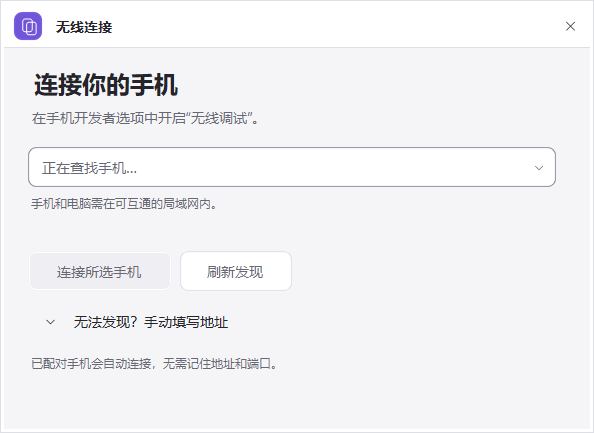
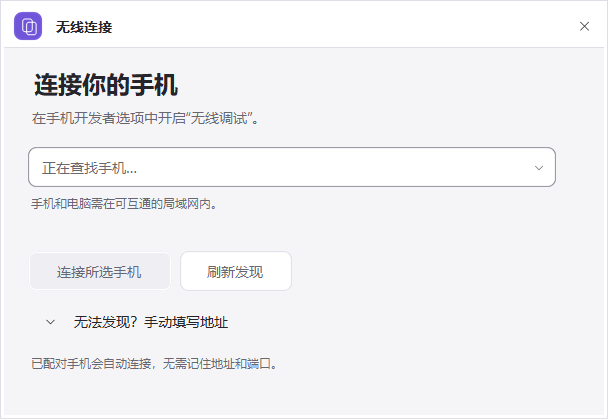
fix: stabilize wireless connection dialog layout (2.7.3)

diff --git a/src/WirelessDialog.cs b/src/WirelessDialog.cs
@@ -10,12 +10,12 @@ namespace AppDeck {
         readonly SelectBox phones=new SelectBox{Width=528,Height=40,EmptyText="正在查找手机…"};
         readonly Field address=new Field("连接地址，例如 192.168.1.10:37521"),pairAddress=new Field("配对地址，端口与连接地址不同"),code=new Field("六位配对码");
         readonly Label discovery=Theme.Hint("手机和电脑需在可互通的局域网内。",9),status=Theme.Hint("已配对手机会自动连接，无需记住地址和端口。",9);
-        readonly FlowLayoutPanel content=new FlowLayoutPanel{Dock=DockStyle.Fill,Padding=new Padding(24,20,24,16),FlowDirection=FlowDirection.TopDown,WrapContents=false,AutoScroll=true};
+        readonly FlowLayoutPanel content=new BufferedFlowPanel{Dock=DockStyle.Fill,Padding=new Padding(24,20,24,16),FlowDirection=FlowDirection.TopDown,WrapContents=false,AutoScroll=true};
         readonly Panel pairGroup=new Panel{Width=528,Height=140,Margin=new Padding(0,16,0,0)},manualGroup=new Panel{Width=528,Height=148,Visible=false,Margin=Padding.Empty};
         readonly ModernButton connect,pair,refresh,manualConnect,manualPair,manualToggle;
-        bool updating,manualExpanded,previewState;string phoneSignature="";NearbyPhone selectedPhone;
+        bool updating,manualExpanded,previewState,arranging;int layoutState=-1;string phoneSignature="";NearbyPhone selectedPhone;
         public WirelessDialog(WirelessMonitor monitor=null){
-            this.monitor=monitor;Text="无线连接";ClientSize=new Size(580,430);MinimumSize=new Size(580,400);MaximizeBox=false;Caption.SetWindowButtons(false,false);StartPosition=FormStartPosition.CenterParent;Body.Controls.Add(content);
+            this.monitor=monitor;Text="无线连接";Size=new Size(608,430);MinimumSize=new Size(608,400);MaximumSize=new Size(608,Int16.MaxValue);MaximizeBox=false;Caption.SetWindowButtons(false,false);StartPosition=FormStartPosition.CenterParent;Body.Controls.Add(content);
             var heading=Theme.Label("连接你的手机",18,true);heading.Margin=new Padding(0,0,0,8);content.Controls.Add(heading);
             var hint=Theme.Hint("在手机开发者选项中开启“无线调试”。",10.5f);hint.Margin=new Padding(0,0,0,20);content.Controls.Add(hint);
             phones.Margin=new Padding(0,0,0,8);phones.AccessibleName="发现的无线调试手机";content.Controls.Add(phones);phones.SelectedIndexChanged+=(s,e)=>{if(!updating){selectedPhone=phones.SelectedItem as NearbyPhone;UpdateSelection();}};
@@ -37,16 +37,27 @@ namespace AppDeck {
         }
         static FlowLayoutPanel Row(){return new FlowLayoutPanel{Width=528,Height=40,Margin=Padding.Empty,WrapContents=false};}
         void UpdateSections(){
-            var phone=phones.SelectedItem as NearbyPhone;bool needsPairing=phone!=null&&!phone.Connected&&phone.Pair!=null,showPair=manualExpanded||needsPairing;
-            pairGroup.Visible=showPair;manualGroup.Visible=manualExpanded;manualToggle.Text=manualExpanded?"收起手动连接":"无法发现？手动填写地址";
-            connect.Visible=!needsPairing;refresh.Margin=needsPairing?Padding.Empty:new Padding(8,0,0,0);pair.Visible=needsPairing;pair.Primary=!manualExpanded;
-            pairGroup.Controls[0].Text=needsPairing?"首次使用 · 配对这台手机":"手动配对 · 六位配对码";
-            content.PerformLayout();int height=content.Padding.Vertical+Caption.Height+8;
-            foreach(Control control in content.Controls)if(control!=pairGroup&&control!=manualGroup)height+=control.Height+control.Margin.Vertical;
-            if(showPair)height+=pairGroup.Height+pairGroup.Margin.Vertical;if(manualExpanded)height+=manualGroup.Height+manualGroup.Margin.Vertical;
-            int maxHeight=Math.Max(MinimumSize.Height,Screen.PrimaryScreen.WorkingArea.Height-48);
-            ClientSize=new Size(ClientSize.Width,Math.Min(maxHeight,Math.Max(MinimumSize.Height,height)));
+            var phone=phones.SelectedItem as NearbyPhone??selectedPhone;bool needsPairing=phone!=null&&!phone.Connected&&phone.Pair!=null,showPair=manualExpanded||needsPairing;
+            int next=DeviceDpi*8+(manualExpanded?1:0)+(needsPairing?2:0);if(arranging||next==layoutState)return;
+            arranging=true;SuspendLayout();Body.SuspendLayout();content.SuspendLayout();
+            try{
+                pairGroup.Visible=showPair;manualGroup.Visible=manualExpanded;manualToggle.Text=manualExpanded?"收起手动连接":"无法发现？手动填写地址";
+                connect.Visible=!needsPairing;refresh.Margin=needsPairing?Padding.Empty:new Padding(8,0,0,0);pair.Visible=needsPairing;pair.Primary=!manualExpanded;
+                pairGroup.Controls[0].Text=needsPairing?"首次使用 · 配对这台手机":"手动配对 · 六位配对码";
+                int height=content.Padding.Vertical+Caption.Height+Padding.Vertical;
+                foreach(Control control in content.Controls)if(control!=pairGroup&&control!=manualGroup)height+=control.Height+control.Margin.Vertical;
+                if(showPair)height+=pairGroup.Height+pairGroup.Margin.Vertical;if(manualExpanded)height+=manualGroup.Height+manualGroup.Margin.Vertical;
+                int maxHeight=Math.Max(MinimumSize.Height,Screen.PrimaryScreen.WorkingArea.Height-48),target=Math.Min(maxHeight,Math.Max(MinimumSize.Height,height));
+                // Use outer height for this custom frame; avoid client/non-client conversions
+                // and repeated sizing work on discovery notifications.
+                if(Height!=target)Height=target;layoutState=next;
+            }finally{content.ResumeLayout(true);Body.ResumeLayout(true);ResumeLayout(true);arranging=false;}
+            Invalidate(true);
         }
+        protected override void OnLoad(EventArgs e){base.OnLoad(e);layoutState=-1;UpdateSections();}
+        protected override void OnPaintBackground(PaintEventArgs e){e.Graphics.Clear(Theme.Surface);}
+        protected override void OnSizeChanged(EventArgs e){base.OnSizeChanged(e);if(IsHandleCreated&&!arranging)Invalidate(true);}
+        protected override void OnDpiChanged(DpiChangedEventArgs e){base.OnDpiChanged(e);if(IsHandleCreated)BeginInvoke((Action)(()=>{if(!IsDisposed){layoutState=-1;UpdateSections();}}));}
         void MonitorChanged(object sender,EventArgs e){if(!IsDisposed&&!Disposing)UpdatePhones();}
         void UpdatePhones(){
             var nearby=monitor.Nearby();string signature=String.Join("|",nearby.Select(p=>p.ToString()+"/"+(p.Pair==null?"":p.Pair.Name+"/"+p.Pair.Address)+"/"+(p.Connect==null?"":p.Connect.Name+"/"+p.Connect.Address)));

diff --git a/src/WirelessDialogChecks.cs b/src/WirelessDialogChecks.cs
@@ -1,0 +1,41 @@
+using System;
+using System.Drawing;
+using System.IO;
+using System.Threading.Tasks;
+using System.Windows.Forms;
+
+namespace AppDeck {
+    internal static class WirelessDialogChecks {
+        static void Check(bool value,string message){if(!value)throw new Exception("wireless dialog: "+message);}
+        static Control Find(Control root,Func<Control,bool> predicate){foreach(Control child in root.Controls){if(predicate(child))return child;var result=Find(child,predicate);if(result!=null)return result;}return null;}
+        public static async Task Run(string folder){
+            int mode=0;var monitor=new WirelessMonitor(Path.Combine(folder,"layout-test-peers.xml"),(args,timeout,input)=>{
+                string output="";
+                if(args[0]=="devices")output="List of devices attached\n"+(mode==0?"192.0.2.10:32123 device model:Layout_Phone transport_id:1\n":"");
+                else if(args[0]=="mdns")output="List of discovered mdns services\n"+(mode==0?"adb-layout _adb-tls-connect._tcp 192.0.2.10:32123\n":mode==1?"adb-layout-pair _adb-tls-pairing._tcp 192.0.2.10:31237\n":"");
+                else if(args.Length>3&&args[2]=="shell")output="wireless-layout-phone\n";
+                else if(args[0]=="connect")output="connected to 192.0.2.10:32123\n";
+                else throw new Exception("Unexpected test command");
+                return Task.FromResult(new Result{Code=0,Output=output,Error=""});
+            });
+            var area=Screen.PrimaryScreen.WorkingArea;
+            using(var dialog=new WirelessDialog(monitor)){
+                dialog.StartPosition=FormStartPosition.Manual;dialog.Location=new Point(area.Left+40,area.Top+40);dialog.Show();await monitor.Refresh();await Task.Delay(50);
+                Check(dialog.MinimumSize.Height>=400&&dialog.Height>=400,"minimum height and content area survive the fixed-width constraint");
+                Size original=dialog.Size;int resizes=0;dialog.SizeChanged+=(s,e)=>resizes++;
+                for(int i=0;i<20;i++){await monitor.Refresh();await Task.Yield();}
+                Check(dialog.Size==original&&resizes==0,"unchanged discovery must not resize the window: "+original+" -> "+dialog.Size+", changes="+resizes);
+                dialog.MaximumSize=new Size(dialog.Width,430);var manual=(Button)Find(dialog,c=>c is Button&&c.Text=="无法发现？手动填写地址");Check(manual!=null,"manual entry exists");manual.PerformClick();await Task.Delay(50);
+                var content=(FlowLayoutPanel)Find(dialog,c=>c is FlowLayoutPanel&&((FlowLayoutPanel)c).AutoScroll);
+                Check(content!=null&&content.VerticalScroll.Visible&&!content.HorizontalScroll.Visible,"constrained manual form uses vertical scrolling without a horizontal strip");
+                int width=dialog.Width;for(int i=0;i<10;i++)await monitor.Refresh();Check(dialog.Width==width,"scrollbars and polling keep width fixed");
+                dialog.MaximumSize=new Size(dialog.Width,Int16.MaxValue);manual.PerformClick();await Task.Delay(30);
+                mode=1;await monitor.Refresh();await Task.Delay(30);Size pairing=dialog.Size;var code=(Field)Find(dialog,c=>c is Field&&c.AccessibleName=="无线调试配对码");
+                Check(code!=null&&code.Visible,"pairing section appears");code.Input.Text="123456";
+                mode=2;await monitor.Refresh();await Task.Delay(30);Check(dialog.Size==pairing&&code.Visible&&code.Input.Text=="123456","a missed advertisement preserves pairing layout and typed code");
+                mode=0;await monitor.Refresh();await Task.Delay(30);Check(dialog.Width==original.Width,"pairing state cannot change width");
+                Check(dialog.Opacity==1&&dialog.TransparencyKey.IsEmpty,"dialog remains opaque");dialog.Close();
+            }
+        }
+    }
+}

diff --git a/src/EdgeDockChecks.cs b/src/EdgeDockChecks.cs
@@ -32,7 +32,7 @@ namespace AppDeck {
         public static int Desktop(string folder){
             Directory.CreateDirectory(folder);int result=1;
             using(var runner=new Runner()){runner.Shown+=async(s,e)=>{
-                try{await Windows(folder);File.WriteAllText(Path.Combine(folder,"edge-dock-check.txt"),"PASS: four-edge native move messages; cumulative pointer movement detaches; 220 ms hide / 40 ms hover delays; 140 ms clipped slide with unchanged HWND and dimensions; no activation on hover; menu/dialog/drag pause; pin preservation; minimize/maximize; tray integration; monitor work-area change and disconnect; disposal; main-window isolation; cast and main caption close buttons; immediate hide with delayed cleanup; responsive UI while pending; failed return restores window; retry and duplicate-close coalescing. Real HWND operations with injected pointer, hit target, time and display topology on the primary monitor; no physical cursor movement or Android device access. Physical mouse feel and actual scrcpy playback require separate acceptance.\r\n",Encoding.UTF8);result=0;}
+                try{await Windows(folder);File.WriteAllText(Path.Combine(folder,"edge-dock-check.txt"),"PASS: four-edge native move messages; cumulative pointer movement detaches; 220 ms hide / 40 ms hover delays; 140 ms clipped slide with unchanged HWND and dimensions; no activation on hover; menu/dialog/drag pause; pin preservation; minimize/maximize; tray integration; monitor work-area change and disconnect; disposal; main-window isolation; cast and main caption close buttons; immediate hide with delayed cleanup; responsive UI while pending; failed return restores window; retry and duplicate-close coalescing; stable wireless dialog across discovery pulses and missed advertisements; vertical-only scrolling. Real HWND operations with injected pointer, hit target, time and display topology on the primary monitor; no physical cursor movement or Android device access. Physical mouse feel and actual scrcpy playback require separate acceptance.\r\n",Encoding.UTF8);result=0;}
                 catch(Exception ex){File.WriteAllText(Path.Combine(folder,"edge-dock-check.txt"),ex.ToString(),Encoding.UTF8);}
                 finally{runner.Close();}
             };Application.Run(runner);}return result;
@@ -129,6 +129,7 @@ namespace AppDeck {
                 main.StartPosition=FormStartPosition.Manual;main.Location=new Point(area.Left+20,area.Top+20);main.Show();await Task.Delay(25);
                 CloseButton(main).PerformClick();for(int retry=0;retry<20&&!main.IsDisposed;retry++)await Task.Delay(25);Check(main.IsDisposed,"main caption close button exits with no active leases");
             }
+            await WirelessDialogChecks.Run(folder);
         }
         static void Drag(Form form,Rectangle target){
             SendMessage(form.Handle,0x231,IntPtr.Zero,IntPtr.Zero);form.Bounds=Moving(form,target);SendMessage(form.Handle,0x232,IntPtr.Zero,IntPtr.Zero);

diff --git a/src/UIPreview.cs b/src/UIPreview.cs
@@ -46,7 +46,7 @@ namespace AppDeck {
                 }
             }
         }
-        static void Save(Form form,string path){form.TopLevel=false;form.CreateControl();Layout(form);var modern=form as ModernForm;if(modern!=null){int expected=form is CloseChoiceDialog||form is WirelessDialog?1:3;if(modern.Caption.ConfiguredWindowButtonCount!=expected)throw new Exception("Unexpected caption button count: "+path);modern.Caption.PerformLayout();if(!modern.Caption.WindowButtonBoundsReady)throw new Exception("Caption buttons were not laid out while the form was hidden: "+path);}form.Visible=true;Layout(form);if(modern!=null)CheckCaptionLine(modern.Caption);if(modern!=null)foreach(Control button in modern.Caption.Controls)if(button.Visible&&(button.Left<0||button.Right>modern.Caption.Width||button.Width<24))throw new Exception("Caption button clipped: "+path);using(var bitmap=new Bitmap(form.Width,form.Height)){form.DrawToBitmap(bitmap,new Rectangle(Point.Empty,bitmap.Size));bitmap.Save(path,System.Drawing.Imaging.ImageFormat.Png);}}
+        static void Save(Form form,string path){form.TopLevel=false;form.CreateControl();Layout(form);var modern=form as ModernForm;if(modern!=null){int expected=form is CloseChoiceDialog||form is WirelessDialog?1:3;if(modern.Caption.ConfiguredWindowButtonCount!=expected)throw new Exception("Unexpected caption button count: "+path);modern.Caption.PerformLayout();if(!modern.Caption.WindowButtonBoundsReady)throw new Exception("Caption buttons were not laid out while the form was hidden: "+path);}form.Visible=true;Layout(form);if(form is WirelessDialog&&(form.MinimumSize.Height<400||form.Height<400||modern.Body.Height<300))throw new Exception("Wireless dialog content collapsed: "+path);if(modern!=null)CheckCaptionLine(modern.Caption);if(modern!=null)foreach(Control button in modern.Caption.Controls)if(button.Visible&&(button.Left<0||button.Right>modern.Caption.Width||button.Width<24))throw new Exception("Caption button clipped: "+path);using(var bitmap=new Bitmap(form.Width,form.Height)){form.DrawToBitmap(bitmap,new Rectangle(Point.Empty,bitmap.Size));bitmap.Save(path,System.Drawing.Imaging.ImageFormat.Png);}}
         static void Layout(Control c){c.CreateControl();c.PerformLayout();foreach(Control child in c.Controls)Layout(child);}
         static void CheckCaptionLine(CaptionBar caption){using(var bitmap=new Bitmap(caption.Width,caption.Height)){caption.DrawToBitmap(bitmap,new Rectangle(Point.Empty,bitmap.Size));int reference=bitmap.GetPixel(2,caption.Height-1).ToArgb();if(reference==Theme.Surface.ToArgb())throw new Exception("Caption divider missing");foreach(Control button in caption.Controls)if(button.Visible&&bitmap.GetPixel(button.Left+button.Width/2,caption.Height-1).ToArgb()!=reference)throw new Exception("Caption button covers the divider");}}
     }

diff --git a/src/DesignControls.cs b/src/DesignControls.cs
@@ -5,6 +5,9 @@ using System.Drawing.Drawing2D;
 using System.Windows.Forms;
 
 namespace AppDeck {
+    internal sealed class BufferedFlowPanel:FlowLayoutPanel {
+        public BufferedFlowPanel(){DoubleBuffered=true;SetStyle(ControlStyles.AllPaintingInWmPaint|ControlStyles.OptimizedDoubleBuffer|ControlStyles.ResizeRedraw,true);}
+    }
     internal sealed class SegmentedChoice:Control {
         public readonly List<object> Items=new List<object>();int index=-1;
         public event EventHandler SelectedIndexChanged;

diff --git a/VERIFICATION.md b/VERIFICATION.md
@@ -1,5 +1,13 @@
 # 验证记录
 
+## 2026-11-02 2.7.3 无线弹窗布局稳定性
+
+- 无线连接弹窗改为固定逻辑宽度，只在配对区、手动区或 DPI 变化时调整外层高度；后台发现/忙碌通知不再反复设置 ClientSize。批量更新时暂停布局，内容区使用双缓冲，真实尺寸变化后完整重绘，弹窗背景明确绘制为不透明底色。
+- 宽度预留纵向滚动条空间，手动连接区在受限高度下保持纵向滚动，不产生横向滚动条。短暂漏报时保留当前配对布局和输入内容；连接/配对按钮仍只对当前真实发现的服务启用，不对失效地址发起操作。
+- 新增真实主显示器窗口回归：模拟 20 轮相同无线发现，尺寸变化 0 次；配对服务短暂消失后窗口尺寸和输入内容保持；受限高度下纵向滚动正常且无横向滚动；继续刷新时宽度保持。固定宽度使用正数最大高度，避免 WinForms 将最小高度压为 0；窗口测试和离屏渲染均检查内容区没有塌缩。使用注入的 ADB 结果，不访问手机或改变调试配置。
+- 同样的用例对 2.7.2 无线弹窗实现运行，对照版在广播漏报后的配对区域保持检查中失败；稳定刷新时未复现旧版宽度变化，不把实际桌面右侧裂缝声称为已稳定复现。对照报告 `.build/wireless-2.7.2-baseline/`，新版报告 `.build/ui-2.7.3-preview/`。
+- x64 编译、自检、44 张浅深色渲染及主显示器窗口回归通过。未修改手机无线调试、ADB TCP 模式或共享 ADB 服务；保持既有投屏、任务归还和缓存逻辑。
+
 ## 2026-11-02 2.7.2 缓存优先与窗口边框完整性
 
 - 用户截图中的标题栏右侧分割线缺口为绘制问题：按钮占满标题栏高度并清除其底色，覆盖父控件画在最后一行的分割线。所有标题栏按钮和动作按钮底部预留 1 个物理像素，分割线完整贯通；44 张浅深色渲染均检查按钮下方像素与左侧分割线一致。
